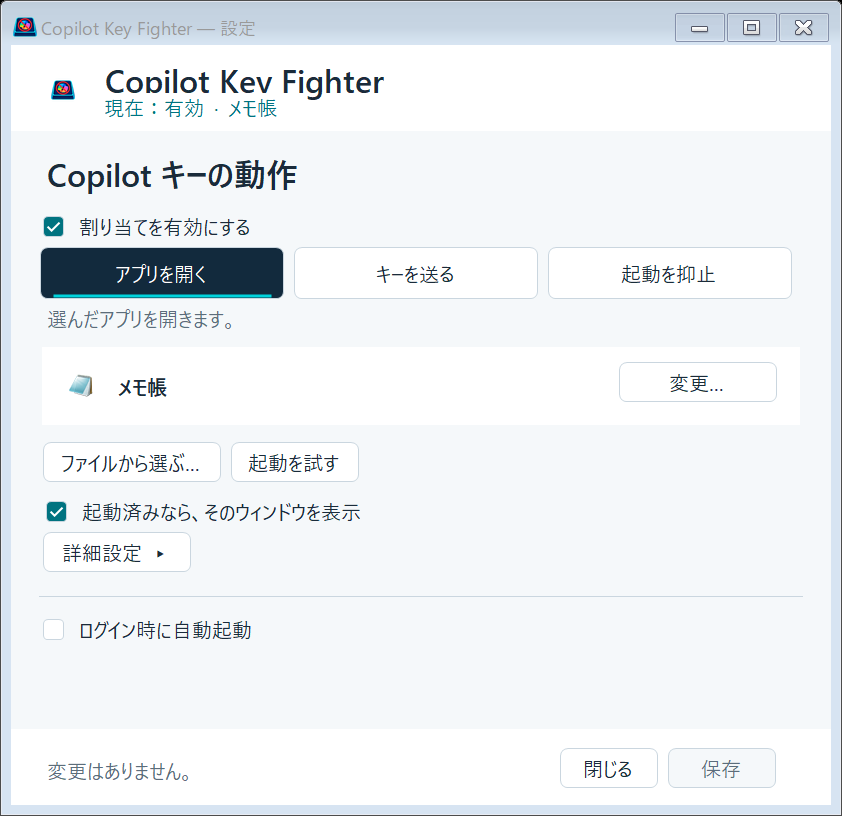
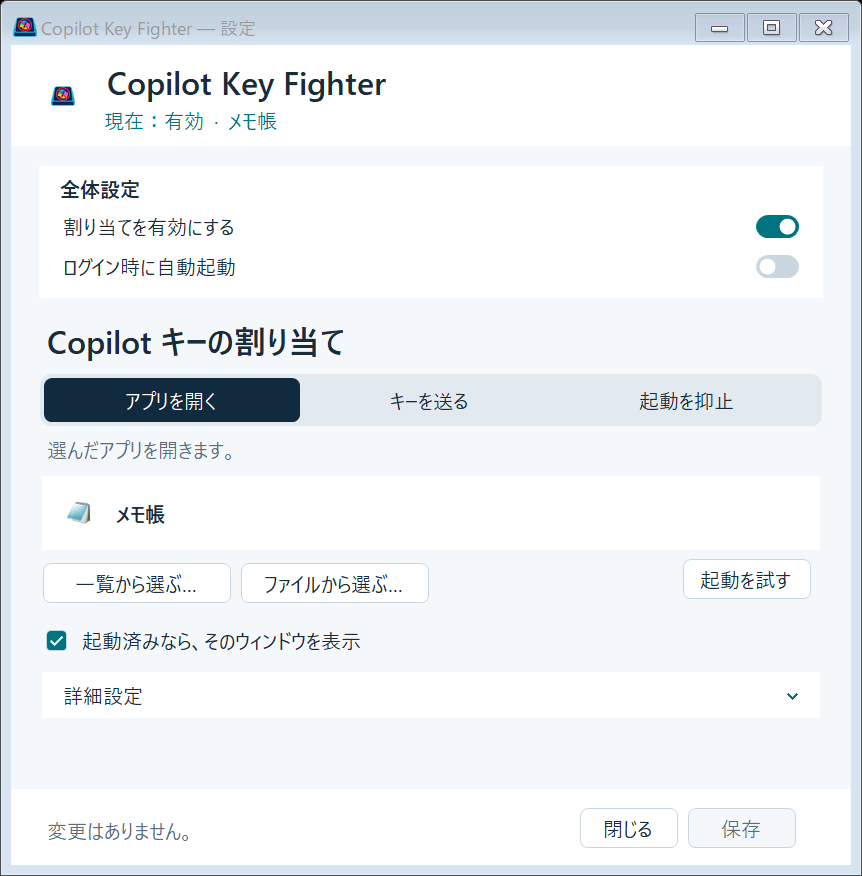
feat: 操作の階層と組み合わせに合わせてUIを再構成

diff --git a/src/CopilotKeyFighter/SettingsForm.cs b/src/CopilotKeyFighter/SettingsForm.cs
@@ -3,10 +3,10 @@ using System.Drawing;
 internal sealed class SettingsForm:Form
 {
     readonly Action<Settings> save;
-    readonly UiCheck enabled=new(){Text="割り当てを有効にする",Dock=DockStyle.Fill};
+    readonly UiCheck enabled=new(){Text="割り当てを有効にする",Switch=true,Dock=DockStyle.Fill};
     readonly ModeSelector action=new();
     readonly UiCheck existing=new(){Text="起動済みなら、そのウィンドウを表示",Dock=DockStyle.Fill};
-    readonly UiCheck startup=new(){Text="ログイン時に自動起動",Dock=DockStyle.Fill};
+    readonly UiCheck startup=new(){Text="ログイン時に自動起動",Switch=true,Dock=DockStyle.Fill};
     readonly UiCheck ctrl=Chip("Ctrl"),shift=Chip("Shift"),alt=Chip("Alt"),win=Chip("Win");
     readonly TextBox id=new(){ReadOnly=true},arguments=new(),directory=new();
     readonly Label appName=new(){AutoSize=true,Text="アプリを選択してください"};
@@ -15,7 +15,7 @@ internal sealed class SettingsForm:Form
     readonly Label feedback=new(){AutoSize=false,Dock=DockStyle.Fill,TextAlign=ContentAlignment.MiddleLeft,AutoEllipsis=true};
     readonly Label combination=new(){AutoSize=true};
     readonly UiButton chooseKey=new(){Width=250,Text="Delete  ▾",Name="KeyChoice"};
-    readonly UiButton chooseApp=new(){Text="アプリを選択",Width=160};
+    readonly UiButton chooseApp=new(){Text="アプリを選択",Width=190};
     readonly UiButton tryApp=new(){Text="起動を試す",Width=130};
     readonly UiButton apply=new(){Text="保存",Width=110,Primary=true,Name="SaveSettings"};
     readonly TableLayoutPanel appPanel=Grid(),keyPanel=Grid(),details=Grid();
@@ -33,51 +33,62 @@ internal sealed class SettingsForm:Form
         this.save=save;this.saved=settings;this.paused=paused;
         Text="Copilot Key Fighter — 設定";ownedIcon=Program.LoadIcon();Icon=ownedIcon;
         Font=new Font("Yu Gothic UI",10);BackColor=Visuals.Paper;ForeColor=Visuals.Ink;
-        AutoScaleMode=AutoScaleMode.Dpi;ClientSize=new Size(820,760);MinimumSize=new Size(720,640);StartPosition=FormStartPosition.CenterScreen;
-        var header=new Panel{Dock=DockStyle.Top,Height=86,Padding=new Padding(28,16,28,12),BackColor=Visuals.Surface};
-        var logo=new PictureBox{Image=ownedIcon.ToBitmap(),SizeMode=PictureBoxSizeMode.CenterImage,Dock=DockStyle.Left,Width=48};
-        var heading=new Label{Text="Copilot Key Fighter",Font=new Font(Font.FontFamily,16,FontStyle.Bold),AutoSize=true,Location=new Point(86,12)};
-        current.Location=new Point(88,48);header.Controls.AddRange([logo,heading,current]);
-        var content=Grid();content.Dock=DockStyle.Fill;content.AutoScroll=true;content.Padding=new Padding(28,20,28,12);
+        AutoScaleMode=AutoScaleMode.Dpi;ClientSize=new Size(840,820);MinimumSize=new Size(720,640);StartPosition=FormStartPosition.CenterScreen;
+        var header=new TableLayoutPanel{Dock=DockStyle.Top,AutoSize=true,ColumnCount=2,RowCount=2,Padding=new Padding(28,14,28,12),BackColor=Visuals.Surface};
+        header.ColumnStyles.Add(new ColumnStyle(SizeType.Absolute,48));header.ColumnStyles.Add(new ColumnStyle(SizeType.Percent,100));
+        header.RowStyles.Add(new RowStyle(SizeType.AutoSize));header.RowStyles.Add(new RowStyle(SizeType.AutoSize));
+        var logo=new PictureBox{Image=ownedIcon.ToBitmap(),SizeMode=PictureBoxSizeMode.CenterImage,Dock=DockStyle.Fill};
+        var heading=new Label{Text="Copilot Key Fighter",Font=new Font(Font.FontFamily,16,FontStyle.Bold),AutoSize=true,Margin=new Padding(12,0,0,2)};
+        current.Margin=new Padding(12,0,0,0);header.Controls.Add(logo,0,0);header.SetRowSpan(logo,2);header.Controls.Add(heading,1,0);header.Controls.Add(current,1,1);
+        header.SizeChanged+=(_,_)=>current.MaximumSize=new Size(Math.Max(200,header.Width-header.Padding.Horizontal-64),0);
+        var viewport=new Panel{Dock=DockStyle.Fill,AutoScroll=true,Name="SettingsViewport"};
+        var content=Grid();content.Dock=DockStyle.Top;content.Padding=new Padding(28,20,28,12);viewport.Controls.Add(content);
         var footer=new TableLayoutPanel{Dock=DockStyle.Bottom,Height=76,ColumnCount=2,Padding=new Padding(28,14,28,14),BackColor=Visuals.Surface};
         footer.ColumnStyles.Add(new ColumnStyle(SizeType.Percent,100));footer.ColumnStyles.Add(new ColumnStyle(SizeType.Absolute,244));
         var buttons=Row();buttons.WrapContents=false;buttons.AutoSize=true;buttons.Controls.Add(Button("閉じる",(_,_)=>Close(),100));buttons.Controls.Add(apply);
         footer.Controls.Add(feedback,0,0);footer.Controls.Add(buttons,1,0);
-        Controls.Add(content);Controls.Add(footer);Controls.Add(header);
-        Add(content,Title("Copilot キーの動作"));Add(content,enabled);Add(content,action);Add(content,modeHelp);
+        Controls.Add(viewport);Controls.Add(footer);Controls.Add(header);
+        var general=Grid();general.Name="GlobalSettings";general.Padding=new Padding(16,8,16,12);general.BackColor=Visuals.Surface;general.Margin=new Padding(0,0,0,20);
+        var generalTitle=Caption("全体設定");generalTitle.Font=new Font(Font,FontStyle.Bold);generalTitle.Margin=new Padding(0,0,0,4);
+        Add(general,generalTitle);Add(general,enabled);Add(general,startup);Add(content,general);
+        Add(content,Title("Copilot キーの割り当て"));Add(content,action);Add(content,modeHelp);
 
-        var appCard=new TableLayoutPanel{Dock=DockStyle.Fill,AutoSize=true,ColumnCount=3,Padding=new Padding(14),BackColor=Visuals.Surface,Margin=new Padding(0,12,0,12)};
-        appCard.ColumnStyles.Add(new ColumnStyle(SizeType.Absolute,54));appCard.ColumnStyles.Add(new ColumnStyle(SizeType.Percent,100));appCard.ColumnStyles.Add(new ColumnStyle(SizeType.AutoSize));
+        var appCard=new TableLayoutPanel{Dock=DockStyle.Fill,AutoSize=true,ColumnCount=2,Padding=new Padding(12),BackColor=Visuals.Surface,Margin=new Padding(0,10,0,8)};
+        appCard.ColumnStyles.Add(new ColumnStyle(SizeType.Absolute,54));appCard.ColumnStyles.Add(new ColumnStyle(SizeType.Percent,100));
         appName.Anchor=AnchorStyles.Left;appName.Font=new Font(Font,FontStyle.Bold);appName.MaximumSize=new Size(380,0);
-        appCard.Controls.Add(appIcon,0,0);appCard.Controls.Add(appName,1,0);appCard.Controls.Add(chooseApp,2,0);
+        appCard.Controls.Add(appIcon,0,0);appCard.Controls.Add(appName,1,0);
         Add(appPanel,appCard);
-        var appActions=Row();appActions.Controls.Add(Button("ファイルから選ぶ…",(_,_)=>BrowseExe(),180));appActions.Controls.Add(tryApp);Add(appPanel,appActions);
+        var appActions=new TableLayoutPanel{Dock=DockStyle.Fill,AutoSize=true,ColumnCount=3,Margin=new Padding(0,0,0,8),Name="AppActions"};
+        appActions.ColumnStyles.Add(new ColumnStyle(SizeType.AutoSize));appActions.ColumnStyles.Add(new ColumnStyle(SizeType.Percent,100));appActions.ColumnStyles.Add(new ColumnStyle(SizeType.AutoSize));
+        var selection=Row();selection.Name="AppSelectionMethods";selection.WrapContents=false;selection.Controls.Add(chooseApp);selection.Controls.Add(Button("ファイルから選ぶ…",(_,_)=>BrowseExe(),190));
+        appActions.Controls.Add(selection,0,0);tryApp.Anchor=AnchorStyles.Right|AnchorStyles.Top;appActions.Controls.Add(tryApp,2,0);Add(appPanel,appActions);
         Add(appPanel,existing);
-        var expand=Button("詳細設定  ▸",(_,_)=>{},150);
-        expand.Click+=(_,_)=>{details.Visible=!details.Visible;expand.Text=details.Visible?"詳細設定  ▾":"詳細設定  ▸";};
-        Add(appPanel,expand);
         Add(details,Caption("アプリID / 実行ファイル"));Add(details,Visuals.Field(id));
         var advancedActions=Row();advancedActions.Controls.Add(Button("IDを指定…",(_,_)=>EnterId(),125));
         advancedActions.Controls.Add(Button("コピー",(_,_)=>{if(id.Text.Length>0)Clipboard.SetText(id.Text);},100));Add(details,advancedActions);
         Add(details,Caption("起動引数（任意）"));Add(details,Visuals.Field(arguments));
         Add(details,Caption("作業フォルダー（任意）"));Add(details,Visuals.Field(directory));
-        Add(appPanel,details);details.Visible=false;
+        Add(appPanel,new AccordionSection("詳細設定",details){Name="AdvancedSettings"});
         Add(content,appPanel);
 
-        Add(keyPanel,Caption("送信するキー"));Add(keyPanel,chooseKey);
-        var modifiers=Row();modifiers.Controls.AddRange([ctrl,shift,alt,win]);Add(keyPanel,modifiers);
-        combination.Font=new Font("Segoe UI",15,FontStyle.Bold);combination.ForeColor=Visuals.Accent;Add(keyPanel,combination);
-        var testExpand=Button("入力欄で試す  ▸",(_,_)=>{},180);Add(keyPanel,testExpand);
-        var testPanel=Grid();testPanel.Visible=false;
+        var chord=new TableLayoutPanel{Dock=DockStyle.Fill,AutoSize=true,ColumnCount=3,RowCount=2,Margin=new Padding(0,8,0,8),Name="ChordEditor"};
+        chord.ColumnStyles.Add(new ColumnStyle(SizeType.AutoSize));chord.ColumnStyles.Add(new ColumnStyle(SizeType.Absolute,36));chord.ColumnStyles.Add(new ColumnStyle(SizeType.Percent,100));
+        chord.RowStyles.Add(new RowStyle(SizeType.AutoSize));chord.RowStyles.Add(new RowStyle(SizeType.AutoSize));
+        chord.Controls.Add(Caption("修飾キー（任意）"),0,0);chord.Controls.Add(Caption("メインキー"),2,0);
+        var modifiers=Row();modifiers.Name="ModifierSwitches";modifiers.WrapContents=false;modifiers.Margin=Padding.Empty;modifiers.Controls.AddRange([ctrl,shift,alt,win]);
+        chord.Controls.Add(modifiers,0,1);
+        chord.Controls.Add(new Label{Text="＋",Dock=DockStyle.Fill,TextAlign=ContentAlignment.MiddleCenter,ForeColor=Visuals.Muted},1,1);
+        chooseKey.Width=210;chooseKey.Dock=DockStyle.Fill;chooseKey.Margin=new Padding(0,0,0,0);chord.Controls.Add(chooseKey,2,1);Add(keyPanel,chord);
+        var summary=Grid();summary.Name="KeySummary";summary.BackColor=Visuals.Surface;summary.Padding=new Padding(14,10,14,12);summary.Margin=new Padding(0,8,0,4);summary.MinimumSize=new Size(0,82);
+        var summaryTitle=Caption("送信する操作");summaryTitle.Margin=new Padding(0,0,0,6);Add(summary,summaryTitle);
+        combination.Font=new Font("Yu Gothic UI",14,FontStyle.Bold);combination.ForeColor=Visuals.Accent;combination.Margin=new Padding(0,0,0,6);Add(summary,combination);Add(keyPanel,summary);
+        var testPanel=Grid();
         Add(testPanel,Caption("保存後、この欄で動作を試せます。"));
         var testInput=new TextBox{Text="abc",Multiline=true,AcceptsReturn=true,AccessibleName="キー入力の確認欄"};
         Add(testPanel,Visuals.Field(testInput,70));
         Add(testPanel,Button("リセット",(_,_)=>{testInput.Text="abc";testInput.Select(0,0);testInput.Focus();},110));
-        Add(keyPanel,testPanel);testExpand.Click+=(_,_)=>{testPanel.Visible=!testPanel.Visible;testExpand.Text=testPanel.Visible?"入力欄を閉じる  ▾":"入力欄で試す  ▸";};
+        Add(keyPanel,new AccordionSection("入力欄で試す",testPanel){Name="KeyTest"});
         Add(content,keyPanel);
-        Add(content,new Panel{Dock=DockStyle.Fill,Height=1,BackColor=Visuals.Border,Margin=new Padding(0,20,0,12)});
-        Add(content,startup);
-        content.RowCount++;content.RowStyles.Add(new RowStyle(SizeType.Percent,100));
 
         chooseApp.Click+=(_,_)=>{using var picker=new AppPicker();if(picker.ShowDialog(this)==DialogResult.OK)SetTarget(picker.Selected!);};
         chooseKey.Click+=(_,_)=>{using var picker=new KeyPicker(keyCode);if(picker.ShowDialog(this)==DialogResult.OK){keyCode=picker.SelectedCode;RefreshDraft();}};
@@ -118,8 +129,8 @@ internal sealed class SettingsForm:Form
         modeHelp.ForeColor=Visuals.Muted;
         chooseKey.Text=KeyNames.Name(keyCode)+"  ▾";
         chooseKey.AccessibleName="送信するキー："+KeyNames.Name(keyCode);
-        combination.Text="Copilot  →  "+KeyNames.Binding(Read().Binding!);combination.ForeColor=Visuals.Accent;
-        tryApp.Enabled=target!=null;chooseApp.Text=target==null?"アプリを選択":"変更…";
+        combination.Text=KeyNames.Binding(Read().Binding!);combination.ForeColor=Visuals.Accent;
+        tryApp.Enabled=target!=null;chooseApp.Text="一覧から選ぶ…";
         apply.Enabled=Dirty;
         ShowFeedback(Dirty?"未保存の変更があります。保存すると適用されます。":"変更はありません。",false);
     }
@@ -167,7 +178,7 @@ internal sealed class SettingsForm:Form
         }
     }
     internal static UiButton Button(string text,EventHandler handler,int width=140){var b=new UiButton{Text=text,Width=width};b.Click+=handler;return b;}
-    static UiCheck Chip(string text)=>new(){Text=text,Chip=true,Width=90,Height=38,Margin=new Padding(0,6,8,8)};
+    static UiCheck Chip(string text)=>new(){Text=text,Chip=true,Width=104,Height=42,Margin=new Padding(0,0,8,0)};
     internal static TableLayoutPanel Grid()=>new(){ColumnCount=1,AutoSize=true,AutoSizeMode=AutoSizeMode.GrowAndShrink,Dock=DockStyle.Top};
     internal static FlowLayoutPanel Row()=>new(){AutoSize=true,Dock=DockStyle.Fill,WrapContents=true,Margin=new Padding(0,4,0,8)};
     internal static void Add(TableLayoutPanel p,Control c){p.RowStyles.Add(new RowStyle(SizeType.AutoSize));p.Controls.Add(c,0,p.RowCount++);}

diff --git a/src/CopilotKeyFighter/Visuals.cs b/src/CopilotKeyFighter/Visuals.cs
@@ -101,6 +101,8 @@ internal sealed class UiCheck:CheckBox
     bool hover;
     [DesignerSerializationVisibility(DesignerSerializationVisibility.Hidden)]
     internal bool Chip {get;set;}
+    [DesignerSerializationVisibility(DesignerSerializationVisibility.Hidden)]
+    internal bool Switch {get;set;}
     internal UiCheck(){AutoSize=false;Height=34;Width=600;Cursor=Cursors.Hand;SetStyle(ControlStyles.UserPaint|ControlStyles.AllPaintingInWmPaint|ControlStyles.OptimizedDoubleBuffer|ControlStyles.Opaque|ControlStyles.ResizeRedraw,true);}
     protected override void OnPaintBackground(PaintEventArgs e)=>Visuals.PaintCanvas(this,e.Graphics);
     protected override void OnMouseEnter(EventArgs e){hover=true;Invalidate();base.OnMouseEnter(e);}
@@ -111,10 +113,14 @@ internal sealed class UiCheck:CheckBox
     protected override void OnPaint(PaintEventArgs e)
     {
         Visuals.PaintCanvas(this,e.Graphics);
-        if(Chip)
+        if(Chip || Switch)
         {
-            Visuals.Box(e.Graphics,new Rectangle(1,1,Width-3,Height-3),Checked?Visuals.Navy:Visuals.Surface,Focused?Visuals.Accent:Visuals.Border);
-            TextRenderer.DrawText(e.Graphics,Text,Font,ClientRectangle,Checked?SystemColors.HighlightText:Visuals.Ink,TextFormatFlags.HorizontalCenter|TextFormatFlags.VerticalCenter);
+            int trackWidth=Chip?30:42,trackHeight=Chip?16:22;
+            var track=new Rectangle(Width-trackWidth-6,(Height-trackHeight)/2,trackWidth,trackHeight);
+            Visuals.Box(e.Graphics,track,Checked?Visuals.Accent:Visuals.Border,Focused?Visuals.Accent:Checked?Visuals.Accent:Visuals.Border,trackHeight/2);
+            int diameter=trackHeight-6;using var knob=new SolidBrush(SystemColors.Window);
+            e.Graphics.FillEllipse(knob,Checked?track.Right-diameter-3:track.Left+3,track.Top+3,diameter,diameter);
+            TextRenderer.DrawText(e.Graphics,Text,Font,new Rectangle(Chip?2:0,0,Width-trackWidth-14,Height),Enabled?Visuals.Ink:Visuals.Muted,TextFormatFlags.Left|TextFormatFlags.VerticalCenter|TextFormatFlags.EndEllipsis);
         }
         else
         {
@@ -135,12 +141,18 @@ internal sealed class ModeSelector:FlowLayoutPanel
     internal int SelectedIndex {get=>Array.FindIndex(choices,c=>c.Checked);set{if(value>=0&&value<choices.Length)choices[value].Checked=true;}}
     internal ModeSelector()
     {
-        AutoSize=true;Dock=DockStyle.Fill;WrapContents=false;Margin=new Padding(0,0,0,4);
-        choices=new[]{"アプリを開く","キーを送る","起動を抑止"}.Select(t=>(RadioButton)new Choice {Text=t,Height=54,Width=220,Margin=new Padding(0,0,8,0)}).ToArray();
+        AutoSize=true;Dock=DockStyle.Fill;WrapContents=false;Margin=new Padding(0,0,0,8);Padding=new Padding(4);
+        BackColor=SystemInformation.HighContrast?SystemColors.Control:Color.FromArgb(226,234,240);
+        choices=new[]{"アプリを開く","キーを送る","起動を抑止"}.Select(t=>(RadioButton)new Choice {Text=t,Height=46,Width=220,Margin=Padding.Empty}).ToArray();
         foreach(var c in choices){Controls.Add(c);c.CheckedChanged+=(_,_)=>{c.Invalidate();if(c.Checked)SelectedIndexChanged?.Invoke(this,EventArgs.Empty);};}
-        SizeChanged+=(_,_)=>{foreach(var c in choices)c.Width=Math.Max(130,(ClientSize.Width-24)/3);};SelectedIndex=0;
+        SizeChanged+=(_,_)=>{foreach(var c in choices)c.Width=Math.Max(130,(ClientSize.Width-Padding.Horizontal)/3);};SelectedIndex=0;
     }
     internal void RefreshColors(){foreach(var c in choices)c.Invalidate();}
+    protected override void OnPaintBackground(PaintEventArgs e)
+    {
+        Visuals.PaintCanvas(this,e.Graphics);
+        if(Width>2&&Height>2)Visuals.Box(e.Graphics,new Rectangle(1,1,Width-3,Height-3),BackColor,BackColor,10);
+    }
     sealed class Choice:RadioButton
     {
         bool hover;
@@ -153,9 +165,9 @@ internal sealed class ModeSelector:FlowLayoutPanel
         protected override void OnPaint(PaintEventArgs e)
         {
             Visuals.PaintCanvas(this,e.Graphics);
-            Visuals.Box(e.Graphics,new Rectangle(1,1,Width-3,Height-3),Checked?Visuals.Navy:Visuals.Surface,Focused||hover?Visuals.Accent:Visuals.Border);
+            if(Checked)Visuals.Box(e.Graphics,new Rectangle(1,1,Width-3,Height-3),Visuals.Navy,Focused?Visuals.Accent:Visuals.Navy);
+            else if(hover)Visuals.Box(e.Graphics,new Rectangle(1,1,Width-3,Height-3),Visuals.Surface,Visuals.Surface);
             TextRenderer.DrawText(e.Graphics,Text,Font,ClientRectangle,Checked?SystemColors.HighlightText:Visuals.Ink,TextFormatFlags.HorizontalCenter|TextFormatFlags.VerticalCenter);
-            if(Checked){using var b=new SolidBrush(SystemInformation.HighContrast?SystemColors.HighlightText:Color.FromArgb(0,211,220));e.Graphics.FillRectangle(b,14,Height-6,Width-28,3);}
             if(Focused&&ShowFocusCues)ControlPaint.DrawFocusRectangle(e.Graphics,new Rectangle(5,5,Width-11,Height-11));
         }
     }

diff --git a/src/CopilotKeyFighter/AccordionSection.cs b/src/CopilotKeyFighter/AccordionSection.cs
@@ -1,0 +1,50 @@
+using System.ComponentModel;
+using System.Drawing;
+
+internal sealed class AccordionSection:TableLayoutPanel
+{
+    readonly DisclosureHeader header;
+    readonly Control body;
+    bool expanded;
+    [DesignerSerializationVisibility(DesignerSerializationVisibility.Hidden)]
+    internal bool Expanded
+    {
+        get=>expanded;
+        set
+        {
+            expanded=value;body.Visible=value;header.Expanded=value;
+            header.AccessibleDescription=value?"展開中。閉じるには押してください。":"閉じています。展開するには押してください。";
+            header.Invalidate();PerformLayout();Parent?.PerformLayout();Invalidate();
+        }
+    }
+    internal AccordionSection(string title,Control content)
+    {
+        DoubleBuffered=true;ColumnCount=1;RowCount=2;AutoSize=true;AutoSizeMode=AutoSizeMode.GrowAndShrink;Dock=DockStyle.Top;
+        Margin=new Padding(0,12,0,12);BackColor=Visuals.Surface;
+        RowStyles.Add(new RowStyle(SizeType.Absolute,46));RowStyles.Add(new RowStyle(SizeType.AutoSize));
+        header=new DisclosureHeader{Text=title,Dock=DockStyle.Fill,Margin=Padding.Empty,AccessibleName=title};
+        body=content;body.Dock=DockStyle.Fill;body.Padding=new Padding(16,2,16,14);body.Margin=Padding.Empty;
+        Controls.Add(header,0,0);Controls.Add(body,0,1);header.Click+=(_,_)=>Expanded=!Expanded;Expanded=false;
+    }
+    protected override void OnPaint(PaintEventArgs e)
+    {
+        base.OnPaint(e);using var pen=new Pen(Visuals.Border);
+        e.Graphics.DrawLine(pen,0,0,Width,0);e.Graphics.DrawLine(pen,0,Height-1,Width,Height-1);
+        if(expanded)e.Graphics.DrawLine(pen,16,46,Width-16,46);
+    }
+    sealed class DisclosureHeader:Button
+    {
+        internal bool Expanded;
+        internal DisclosureHeader(){SetStyle(ControlStyles.UserPaint|ControlStyles.AllPaintingInWmPaint|ControlStyles.OptimizedDoubleBuffer|ControlStyles.Opaque|ControlStyles.ResizeRedraw,true);Cursor=Cursors.Hand;}
+        protected override void OnPaintBackground(PaintEventArgs e)=>Visuals.PaintCanvas(this,e.Graphics);
+        protected override void OnPaint(PaintEventArgs e)
+        {
+            Visuals.PaintCanvas(this,e.Graphics);
+            TextRenderer.DrawText(e.Graphics,Text,Font,new Rectangle(16,0,Math.Max(0,Width-64),Height),Visuals.Ink,TextFormatFlags.Left|TextFormatFlags.VerticalCenter|TextFormatFlags.EndEllipsis);
+            using var pen=new Pen(Visuals.Accent,2);int x=Width-28,y=Height/2;
+            Point[] points=Expanded?[new Point(x-5,y+2),new Point(x,y-3),new Point(x+5,y+2)]:[new Point(x-5,y-2),new Point(x,y+3),new Point(x+5,y-2)];
+            e.Graphics.DrawLines(pen,points);
+            if(Focused&&ShowFocusCues)ControlPaint.DrawFocusRectangle(e.Graphics,new Rectangle(6,6,Width-13,Height-13));
+        }
+    }
+}

diff --git a/tests/CopilotKeyFighter.Tests/PaintTests.cs b/tests/CopilotKeyFighter.Tests/PaintTests.cs
@@ -17,26 +17,28 @@ public class PaintTests
                 using var button=new UiButton {Text="保存"};
                 using var check=new UiCheck {Text="割り当てを有効にする"};
                 using var chip=new UiCheck {Text="Ctrl",Chip=true};
+                using var toggle=new UiCheck {Text="全体設定",Switch=true};
+                using var accordion=new AccordionSection("詳細設定",new Panel());
                 using var modes=new ModeSelector();
-                parent.Controls.AddRange([button,check,chip,modes]);
-                var controls=new Control[]{button,check,chip}.Concat(modes.Controls.Cast<Control>()).ToArray();
+                parent.Controls.AddRange([button,check,chip,toggle,modes,accordion]);
+                var controls=new Control[]{button,check,chip,toggle}.Concat(modes.Controls.Cast<Control>()).Concat(accordion.Controls.OfType<Button>()).ToArray();
                 foreach(var color in new[]{Color.FromArgb(245,248,250),Color.White})
                 foreach(bool state in new[]{false,true})
                 foreach(int width in new[]{220,340})
                 {
-                    parent.BackColor=color;check.Checked=chip.Checked=state;button.Enabled=state;
+                    parent.BackColor=color;check.Checked=chip.Checked=toggle.Checked=state;button.Enabled=state;
                     modes.SelectedIndex=state?1:0;
                     foreach(var control in controls)
                     {
-                        control.Size=new Size(width,44);
+                        control.Dock=DockStyle.None;control.Size=new Size(width,44);
                         using var bitmap=new Bitmap(width,44);
                         using var graphics=Graphics.FromImage(bitmap);
                         graphics.Clear(Color.Black);
                         // Simulate the actual paint pass without WM_ERASEBKGND. A full
                         // DrawToBitmap pass used to hide the unpainted buffer regions.
                         control.GetType().GetMethod("OnPaint",BindingFlags.Instance|BindingFlags.NonPublic)!.Invoke(control,[new PaintEventArgs(graphics,control.ClientRectangle)]);
-                        Assert.Equal(color.ToArgb(),bitmap.GetPixel(0,0).ToArgb());
-                        Assert.Equal(color.ToArgb(),bitmap.GetPixel(width-1,43).ToArgb());
+                        Assert.Equal(control.Parent!.BackColor.ToArgb(),bitmap.GetPixel(0,0).ToArgb());
+                        Assert.Equal(control.Parent!.BackColor.ToArgb(),bitmap.GetPixel(width-1,43).ToArgb());
                         if(ReferenceEquals(control,check)) Assert.Equal(color.ToArgb(),bitmap.GetPixel(width-8,20).ToArgb());
                     }
                 }

diff --git a/src/CopilotKeyFighter/Program.cs b/src/CopilotKeyFighter/Program.cs
@@ -15,9 +15,20 @@ internal static class Program
             }
             if (args.Length >= 2 && args[0] == "--render-settings")
             {
-                Settings sample = args.Contains("keyboard") ? new(Enabled:args.Contains("enabled"), Action:ActionKind.Keyboard, Binding:new()) : args.Contains("selected") ? new(Enabled:true, Target:new(TargetKind.Executable,"メモ帳",Path.Combine(Environment.SystemDirectory,"notepad.exe"))) : args.Contains("blocked") ? new(Enabled:true,Action:ActionKind.Disabled) : new();
+                Settings sample = args.Contains("keyboard") ? new(Enabled:args.Contains("enabled"), Action:ActionKind.Keyboard, Binding:args.Contains("left")?new(37,Control:true,Shift:true):new()) : args.Contains("selected") ? new(Enabled:true, Target:new(TargetKind.Executable,"メモ帳",Path.Combine(Environment.SystemDirectory,"notepad.exe"))) : args.Contains("blocked") ? new(Enabled:true,Action:ActionKind.Disabled) : new();
                 using var form = new SettingsForm(sample, _ => { });
                 form.Show(); Application.DoEvents();
+                if(args.Contains("expanded"))
+                {
+                    static IEnumerable<Control> Walk(Control c)=>c.Controls.Cast<Control>().SelectMany(x=>new[]{x}.Concat(Walk(x)));
+                    foreach(var section in Walk(form).OfType<AccordionSection>())section.Expanded=true;
+                    Application.DoEvents();
+                    if(args.Contains("bottom"))
+                    {
+                        var viewport=Walk(form).OfType<Panel>().Single(p=>p.Name=="SettingsViewport");
+                        viewport.AutoScrollPosition=new System.Drawing.Point(0,10000);Application.DoEvents();
+                    }
+                }
                 using var bitmap = new System.Drawing.Bitmap(form.Width, form.Height);
                 form.DrawToBitmap(bitmap, form.ClientRectangle with { Width = form.Width, Height = form.Height });
                 bitmap.Save(args[1]); form.Close(); return 0;

diff --git a/tests/CopilotKeyFighter.Tests/WindowTests.cs b/tests/CopilotKeyFighter.Tests/WindowTests.cs
@@ -24,6 +24,22 @@ public class WindowTests
                 Assert.Equal(3, controls.OfType<RadioButton>().Count());
                 Assert.True(controls.OfType<RadioButton>().Single(x => x.Text == "キーを送る").Checked);
                 form.Show();Application.DoEvents();
+                var global=Assert.Single(controls,b=>b.Name=="GlobalSettings");
+                Assert.Equal(2,global.Controls.OfType<UiCheck>().Count());
+                var chord=Assert.Single(controls.OfType<TableLayoutPanel>(),b=>b.Name=="ChordEditor");
+                var mods=Assert.Single(controls,b=>b.Name=="ModifierSwitches");
+                Assert.Equal(chord.GetRow(key),chord.GetRow(mods));
+                var summary=Assert.Single(controls,b=>b.Name=="KeySummary");
+                var testSection=Assert.Single(controls.OfType<AccordionSection>(),b=>b.Name=="KeyTest");
+                Assert.True(summary.Bottom<=testSection.Top);
+                int collapsed=testSection.Height;testSection.Expanded=true;Application.DoEvents();
+                Assert.True(testSection.Height>collapsed);
+                Assert.True(summary.Bottom<=testSection.Top);
+                var viewport=Assert.Single(controls.OfType<Panel>(),b=>b.Name=="SettingsViewport");
+                Assert.True(viewport.VerticalScroll.Visible);
+                viewport.AutoScrollPosition=new System.Drawing.Point(0,10000);Application.DoEvents();
+                Assert.True(viewport.AutoScrollPosition.Y<0);
+                testSection.Expanded=false;Application.DoEvents();
                 var save=Assert.Single(controls.OfType<Button>(),b=>b.Name=="SaveSettings");
                 var status=Assert.Single(controls.OfType<Label>(),b=>b.Name=="CurrentStatus");
                 var enabled=Assert.Single(controls.OfType<CheckBox>(),b=>b.Text=="割り当てを有効にする");

diff --git a/docs/technical/ui-hierarchy.md b/docs/technical/ui-hierarchy.md
@@ -1,0 +1,24 @@
+# 設定UIの階層と操作の関係
+
+2026-09-15 のユーザーレビューを反映した、現在の設定画面の構成。
+
+|関係|画面での表現|
+|---|---|
+|アプリ全体に作用する設定|有効化とログイン時起動を、動作選択の上にある「全体設定」領域へまとめる|
+|3つから1つを選ぶ排他的な動作|共通トラックと1つの選択位置を持つセグメント切り替え。独立した実行ボタンとして見せない|
+|同じ対象を選ぶ並列の方法|アプリ一覧からの選択とファイル選択を、同じ行・同じ大きさで隣接させる|
+|選択した対象を使った実行|起動テストを同じ行の右側へ離し、選択操作と区別する|
+|同時に成立するキーの組み合わせ|複数選択の修飾キースイッチとメインキーを、同じ行で「＋」につなぐ|
+|設定内容の要約|「送信する操作」という見出しの下に組み合わせを表示。変換方向の矢印を置かず、矢印キーの記号との連続を防ぐ|
+|展開見出しとその従属内容|見出し行と本文が一体になったアコーディオン。見出しだけを枠付きボタンにせず、区切り線と共通背景でつなぐ|
+|現在適用済みの情報|製品名の下に読み取り専用で表示。ヘッダーは行の高さでレイアウトし、固定座標で文字を重ねない|
+
+## 実装と検証
+
+SettingsForm に全体設定、対象選択、キー構成の各領域を設ける。ModeSelector は RadioButton の排他選択を保ち、UiCheck は必要に応じて独立したトグルとして描画する。
+
+AccordionSection は見出しと本文を同じコンテナーで管理する。見出しは本文の開閉だけを行い、矢印を右端の専用領域に描く。展開した内容は独立したスクロール用 Panel 内の自動サイズのレイアウトに収め、保存領域は画面下端に残す。
+
+UIテストでは、全体設定のまとまり、メインキーと修飾キーの同じ行への配置、要約とアコーディオンの非重複、開閉による高さ変更、展開時のスクロール、保存の状態管理を確認する。PaintTests は新しいトグルとアコーディオン見出しにも黒い塗り残りのチェックを適用する。
+
+この判断基準は、後続のUIスキル作成時の参照資料として利用できる。現時点ではプロジェクトのUI設計を記録した文書であり、グローバルなスキル自体を作成・変更したものではない。

diff --git a/docs/verification.md b/docs/verification.md
@@ -72,3 +72,8 @@ The UI was restructured around applied status, draft selection and explicit save
 
 User screenshots showed black checkbox backgrounds and unpainted button corners across all three modes. A regression test drawing OnPaint directly onto a black bitmap reproduced the defect against ce606ee; the corrected implementation fills the complete client surface and passes the same test. Cases cover two parent background colors, checked/unchecked and enabled/disabled states, and two widths. This corrects the earlier reliance on complete DrawToBitmap previews.
 
+
+### 2026-09-15 relationship-led UI revision
+
+The three modes were reviewed after grouping global settings separately. App-selection methods share a row; test launch is separated at its right. Modifier switches and the main key share a row with a plus sign; the output summary has an explicit label and no transformation arrow. Flat accordion headers reserve a separate chevron area. Expanded key-test and advanced-app content were rendered at the bottom scroll position to verify access. UI tests cover grouping, same-row chord layout, expansion height, non-overlap, scrollbar availability and Save visibility. Paint coverage now includes global toggles and disclosure headers.
+

diff --git a/docs/technical/design.md b/docs/technical/design.md
@@ -47,3 +47,6 @@ The native DeletePipelineTests instantiate an isolated settings store and opt in
 
 Owner-drawn controls explicitly fill their entire client area with the opaque parent surface at the start of OnPaint. They use Opaque and ResizeRedraw and do not rely on the background-erase pass of ButtonBase or DrawToBitmap. This covers checkbox labels and the area outside rounded button corners during partial repainting.
 
+
+The relationship-led UI revision is specified in [ui-hierarchy.md](ui-hierarchy.md): global settings precede assignment settings; exclusive actions share a segmented track; application-selection methods are adjacent; modifier toggles and the main key compose one chord; and a flat accordion header shares a container with its body. A separate scrolling Panel hosts the auto-sized content, so expanded fields remain reachable while Save stays fixed.
+
